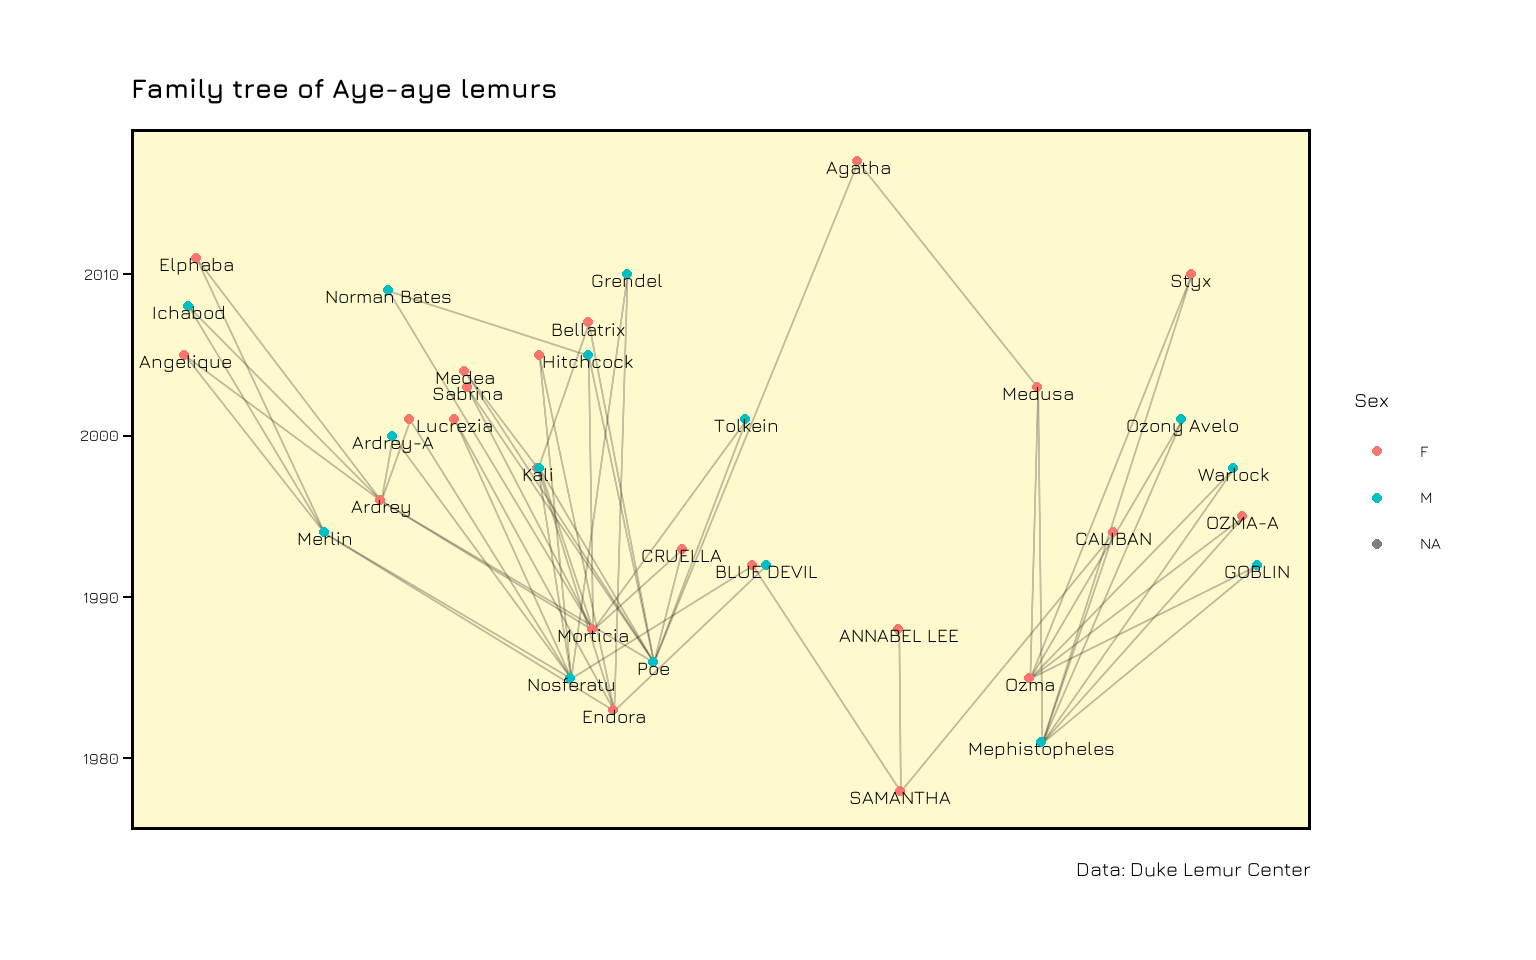
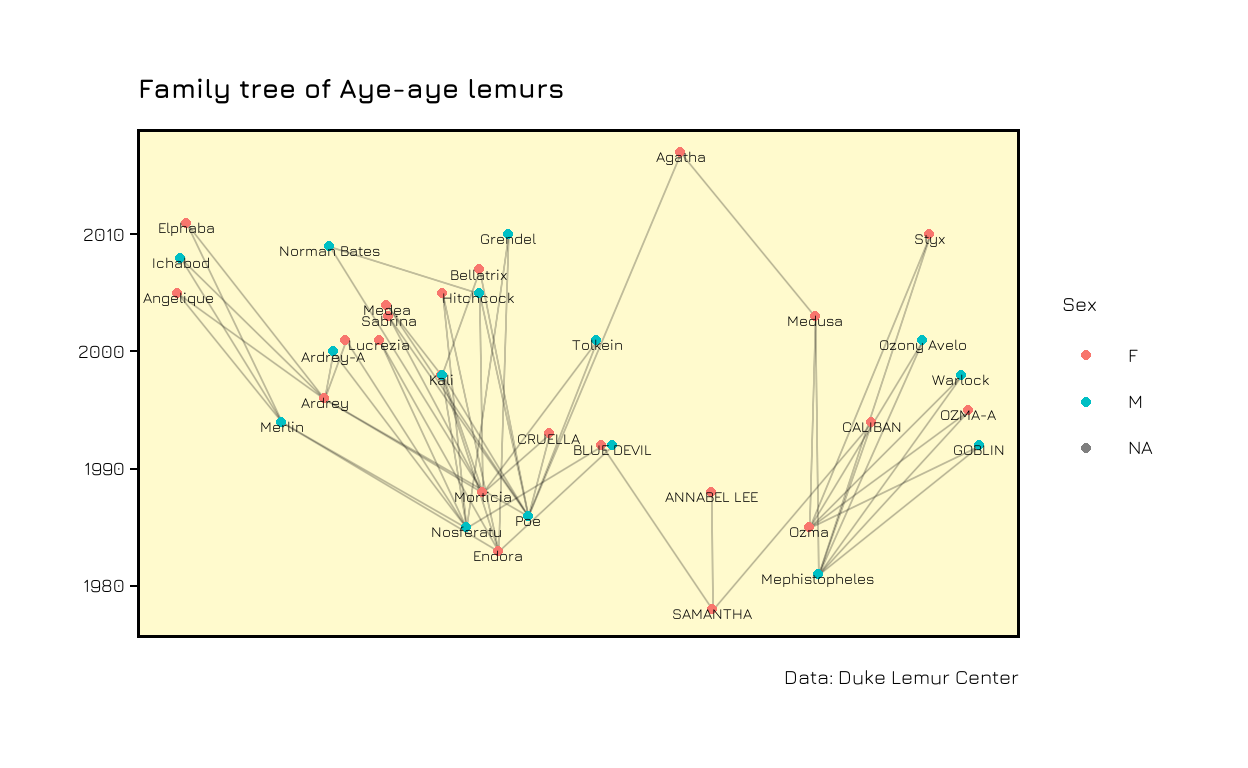
updated post - plot sizes

diff --git a/_site/index.html b/_site/index.html
@@ -2412,12 +2412,8 @@ code span.wa { color: #5e5e5e; font-style: italic; } /* Warning */
 
 <div class="d-article">
 <p>My name is Richard Vogg. I studied mathematics at TU Kaiserslautern in Germany, where I focused on statistics and obtained a Master’s degree.</p>
-<p>Afterwards I moved to Valparaíso, Chile for three years and worked as a Senior Business Analyst for an international data analytics company. In late 2020 I moved back to Germany, looking for new interesting data projects.</p>
+<p>Afterwards I moved to Valparaíso, Chile for three years and worked as a Senior Business Analyst for an international data analytics company. In late 2020 I moved back to Germany, looking for new interesting data projects. I found one: Since May 2021 I am working at the University of Göttingen with Computer Vision and Deep Learning techniques to analyze monkeys in the wild on videos.</p>
 <div class="layout-chunk" data-layout="l-body">
-<div class="sourceCode">
-<pre class="sourceCode r"><code class="sourceCode r"><span class='fu'>knitr</span><span class='fu'>::</span><span class='fu'><a href='https://rdrr.io/pkg/knitr/man/include_graphics.html'>include_graphics</a></span><span class='op'>(</span><span class='st'>"rvogg.JPG"</span><span class='op'>)</span>
-</code></pre>
-</div>
 <p><img src="rvogg.JPG" width="50%" style="display: block; margin: auto;" /></p>
 </div>
 <p>Using R makes me happy. Sometimes I learn interesting things that might be interesting for others. I created this blog to share them.</p>

diff --git a/_posts/2021-09-12-family-trees-with-ggraph/family-trees-with-ggraph.html b/_posts/2021-09-12-family-trees-with-ggraph/family-trees-with-ggraph.html
@@ -1779,14 +1779,14 @@ code span.wa { color: #5e5e5e; font-style: italic; } /* Warning */
 </div>
 <p>In the end we can use themes and titles to make the plot prettier.</p>
 <div class="layout-chunk" data-layout="l-body">
-<p><img src="family-trees-with-ggraph_files/figure-html5/unnamed-chunk-12-1.png" width="768" /></p>
+<p><img src="family-trees-with-ggraph_files/figure-html5/unnamed-chunk-12-1.png" width="624" /></p>
 </div>
 <p>The next step is to put this procedure into a function to be able to repeat it easily for other families. If you want to see the whole code, take a look at <a href="https://github.com/richardvogg/tidy-tuesdays/blob/master/2021/Week%2035%20-%20lemurs/network.R">my Github repository</a>.</p>
 <div class="layout-chunk" data-layout="l-body">
-<p><img src="family-trees-with-ggraph_files/figure-html5/unnamed-chunk-13-1.png" width="768" /></p>
+<p><img src="family-trees-with-ggraph_files/figure-html5/unnamed-chunk-13-1.png" width="624" /></p>
 </div>
 <div class="layout-chunk" data-layout="l-body">
-<p><img src="family-trees-with-ggraph_files/figure-html5/unnamed-chunk-14-1.png" width="768" /></p>
+<p><img src="family-trees-with-ggraph_files/figure-html5/unnamed-chunk-14-1.png" width="624" /></p>
 </div>
 <h3 id="closing-comments">Closing comments</h3>
 <ul>

diff --git a/_site/posts/2021-09-12-family-trees-with-ggraph/index.html b/_site/posts/2021-09-12-family-trees-with-ggraph/index.html
@@ -2726,14 +2726,14 @@ d-appendix d-footnote-list a.footnote-backlink {
 </div>
 <p>In the end we can use themes and titles to make the plot prettier.</p>
 <div class="layout-chunk" data-layout="l-body">
-<p><img src="family-trees-with-ggraph_files/figure-html5/unnamed-chunk-12-1.png" width="768" /></p>
+<p><img src="family-trees-with-ggraph_files/figure-html5/unnamed-chunk-12-1.png" width="624" /></p>
 </div>
 <p>The next step is to put this procedure into a function to be able to repeat it easily for other families. If you want to see the whole code, take a look at <a href="https://github.com/richardvogg/tidy-tuesdays/blob/master/2021/Week%2035%20-%20lemurs/network.R">my Github repository</a>.</p>
 <div class="layout-chunk" data-layout="l-body">
-<p><img src="family-trees-with-ggraph_files/figure-html5/unnamed-chunk-13-1.png" width="768" /></p>
+<p><img src="family-trees-with-ggraph_files/figure-html5/unnamed-chunk-13-1.png" width="624" /></p>
 </div>
 <div class="layout-chunk" data-layout="l-body">
-<p><img src="family-trees-with-ggraph_files/figure-html5/unnamed-chunk-14-1.png" width="768" /></p>
+<p><img src="family-trees-with-ggraph_files/figure-html5/unnamed-chunk-14-1.png" width="624" /></p>
 </div>
 <h3 id="closing-comments">Closing comments</h3>
 <ul>
